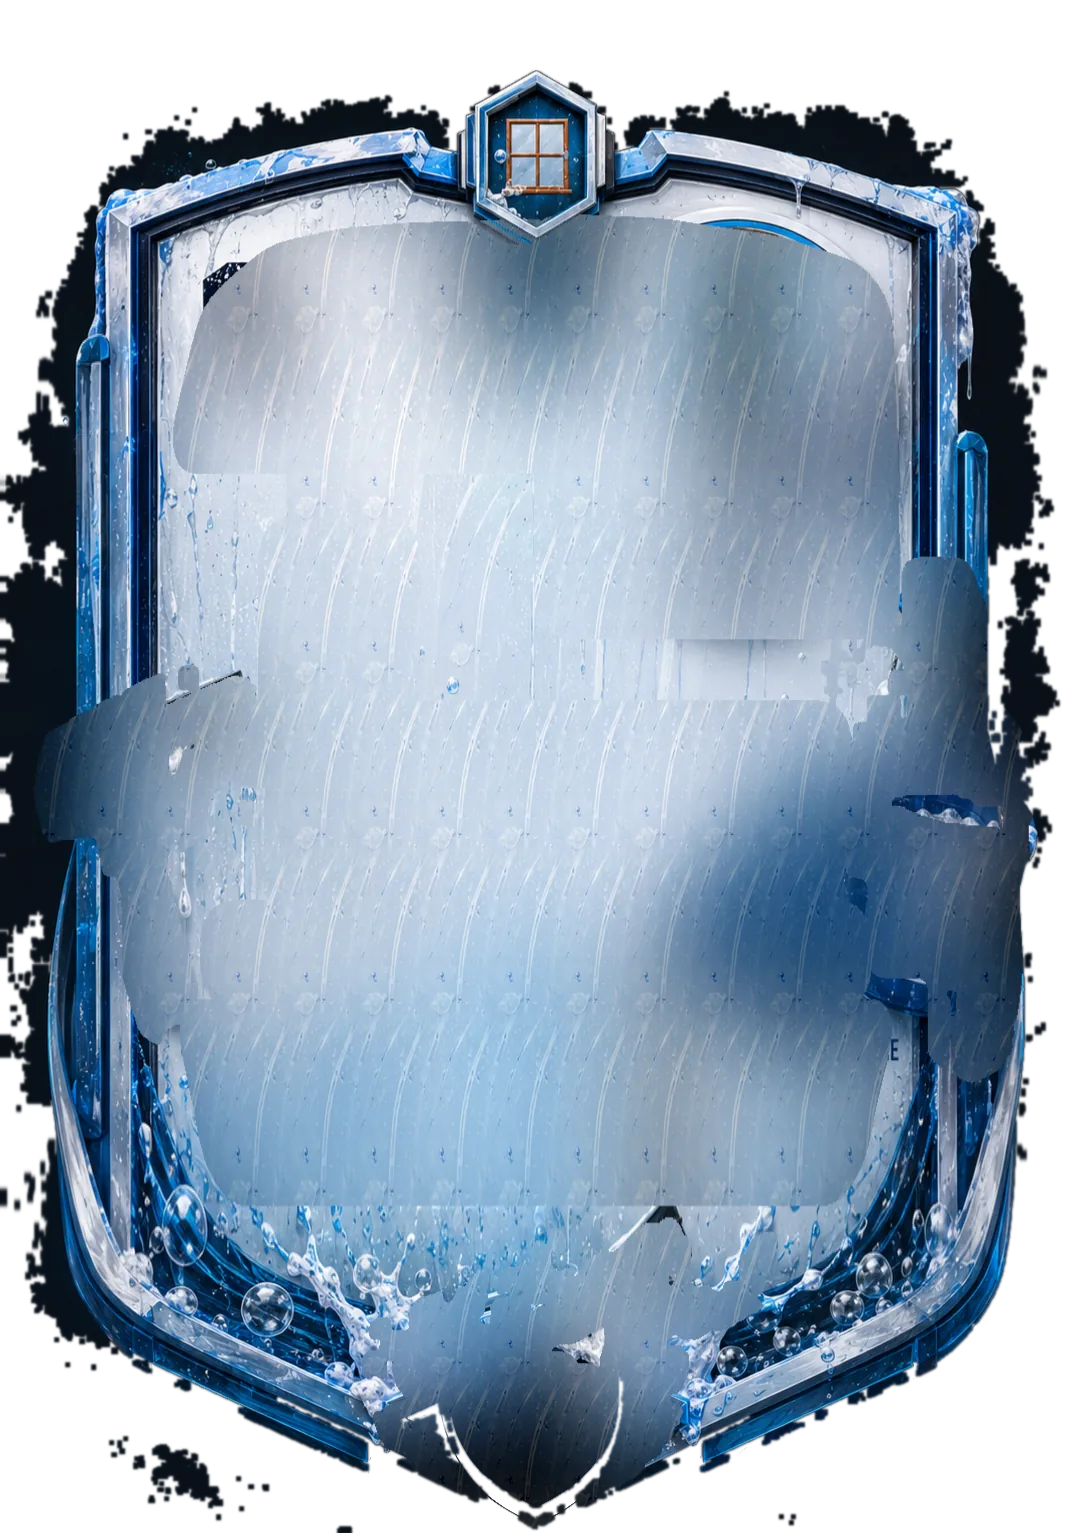
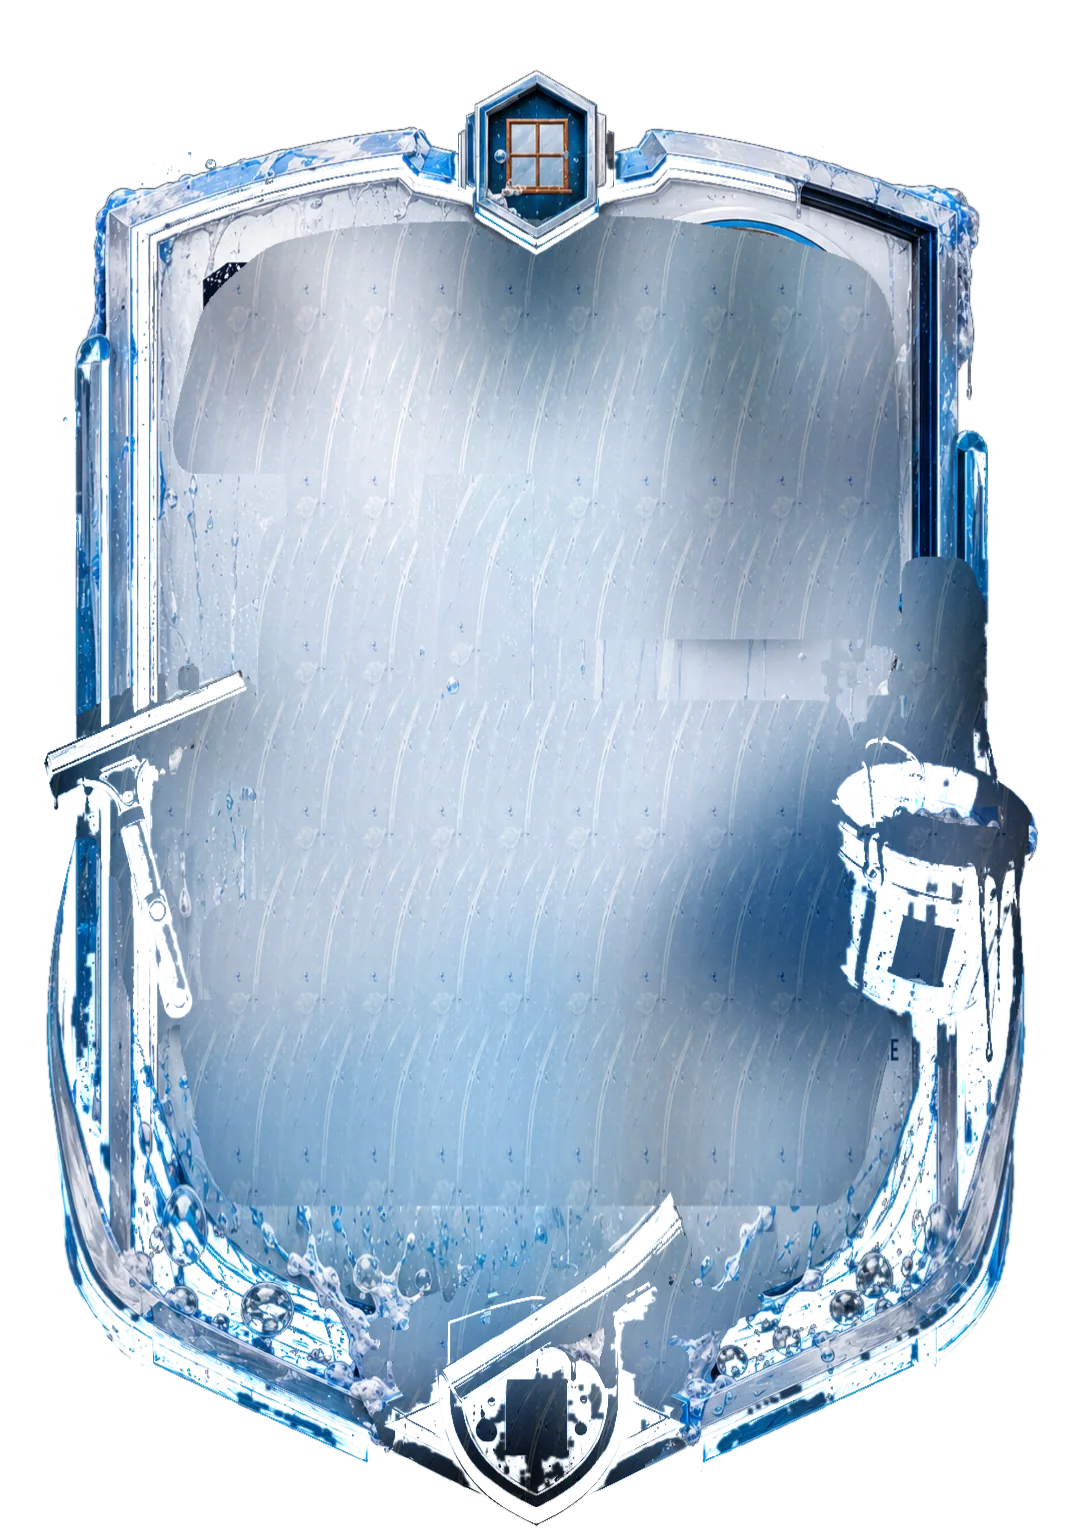
fix(kaart): donkere zoom om de Glazenwasser-kaart weghalen
Om de kaart bleef een rafelige donkerblauw-zwarte rand plakken. Twee oorzaken,
allebei in de sleutel van de ring.

De silhouetdrempel stond op lum 14, terwijl de referentie buiten de kaart niet
zwart is maar een donkere gloed van lum 11–25 draagt. Een deel van die
achtergrond werd daarmee als massieve kaart gekeyd — vandaar de rafels, die het
silhouet volgden maar er niet bij hoorden. De drempel gaat naar 46, ruim boven de
achtergrond; de donkere binnenkant van de lijst valt daar wel onder, maar die is
ingesloten en wordt door `vul_gaten` alsnog dichtgezet.

Daarnaast draagt elke halfdoorzichtige randpixel de kleur van die zwarte
achtergrond mee: hij ís een menging van kaart en achtergrond. Op een andere
ondergrond gecomposit blijft dat zwart als zoom zichtbaar, hoe goed de alfa ook
is. De randkleur wordt nu teruggerekend door door de alfa te delen, zodat de
pixel de kleur krijgt die de kaart daar werkelijk heeft.

Claude-Session: https://claude.ai/code/session_01Mgnshd48cHs6yi21WFUbTA

Changed region(s): [[0.0, 0.0613, 0.9851, 1.0], [0.5233, 0.0613, 0.8927, 0.1533], [0.5233, 0.0307, 0.5541, 0.0613]]

diff --git a/scripts/glazenwasser-onderdelen.py b/scripts/glazenwasser-onderdelen.py
@@ -563,7 +563,12 @@ def kaartring() -> None:
     # halftransparant — en dan schemert de donkere onderlegger er als blauwe
     # waas doorheen. Binnen het silhouet is de alfa dus vol; alleen de spray die
     # buiten de kaart op zwart staat houdt een zachte alfa.
-    kern = luma > 14.0
+    # Drempel ruim boven de achtergrond. Buiten de kaart ligt de referentie op
+    # lum 11–25, dus op een drempel van 14 werd een deel van die achtergrond als
+    # massieve kaart gekeyd — dat gaf de rafelige donkere rand die aan de lijst
+    # plakte. De donkere kant van de lijst zelf ligt hier wel onder, maar die is
+    # ingesloten en wordt door `vul_gaten` alsnog dichtgezet.
+    kern = luma > 46.0
     kern = vul_gaten(ontkorrel(kern, 2), maxdeel=10.0)
     binnen_sil = vervaag(kern.astype(np.float32), 1.0)
     # Drempel ruim boven de achtergrond. Buiten de kaart is de referentie niet
@@ -571,7 +576,7 @@ def kaartring() -> None:
     # alfa 0,3–0,6 en hing er dus een halftransparante donkere waas om de kaart,
     # die op de app-achtergrond duidelijk zichtbaar werd. Alleen echt licht
     # materiaal — ijs en opspattend water — hoort hier nog te keyen.
-    spray = np.clip((luma - 34.0) / 45.0, 0, 1)
+    spray = np.clip((luma - 40.0) / 50.0, 0, 1)
     alpha = np.clip(binnen_sil + spray * (1.0 - binnen_sil), 0, 1)
 
     # De crest blijft in de ring. In de bovenzone is de verticale afbeelding een
@@ -631,6 +636,16 @@ def kaartring() -> None:
         [vervaag(herhaald[..., k] / 255.0, 9.0) * 255.0 for k in range(3)], -1
     )
     rgb = np.where(onbekend[..., None], laag + fijn * 1.15, BRON.rgb)
+
+    # Randkleur terugrekenen. De referentie staat op bijna zwart, dus elke
+    # halfdoorzichtige randpixel is een menging van kaart én die zwarte
+    # achtergrond. Composite je hem daarna op een andere ondergrond, dan blijft
+    # dat zwart als donkere zoom zichtbaar. Delen door de alfa haalt de
+    # achtergrondbijdrage eruit en geeft de kleur die de kaart daar écht heeft.
+    veilig = np.maximum(alpha, 0.06)[..., None]
+    rgb = np.where(
+        (alpha > 0.02)[..., None], np.clip(rgb / veilig, 0, 255), rgb
+    )
 
     # Verticaal herbemonsteren met dezelfde stuksgewijze afbeelding die de layout
     # gebruikt: de kap en de punt houden hun maat, het middenveld rekt mee.
